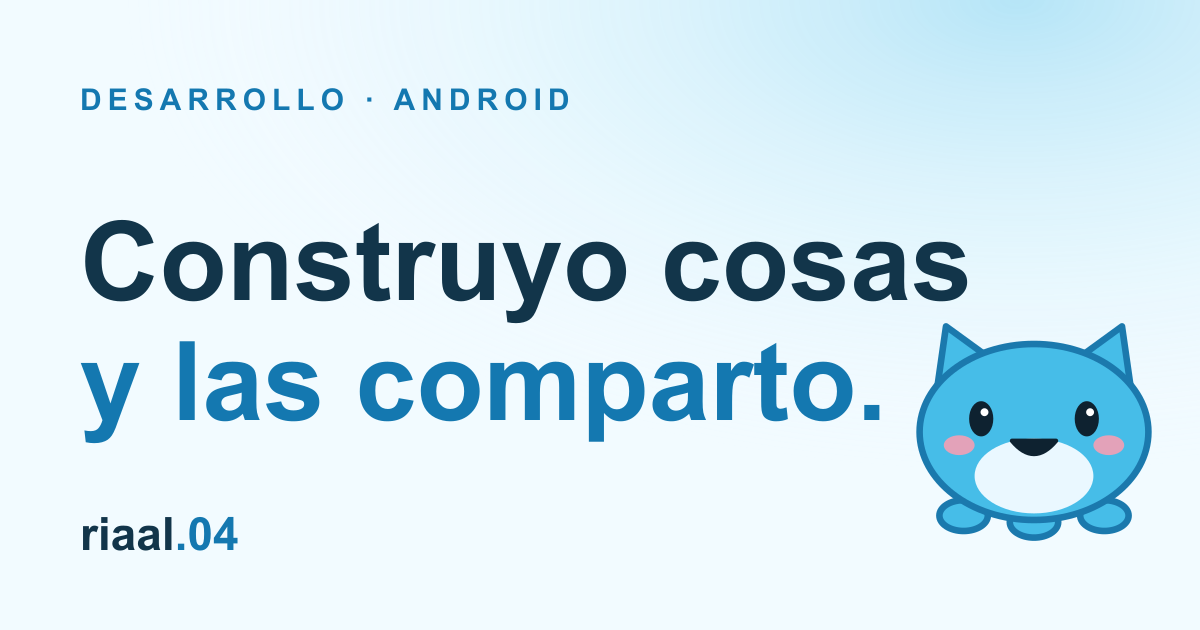
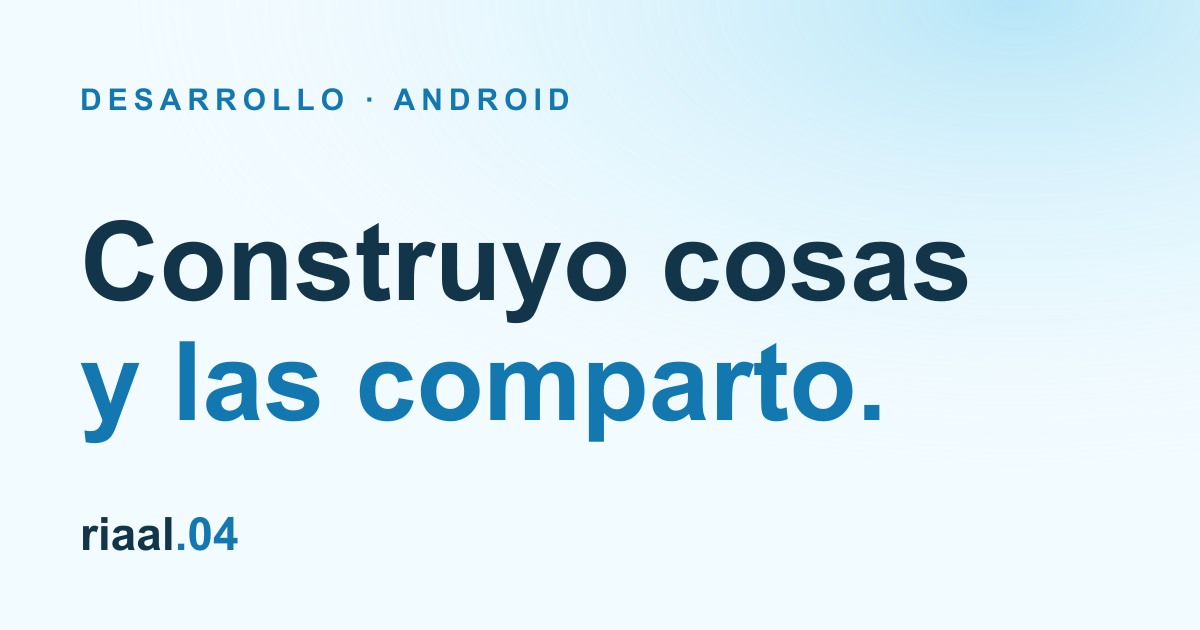
Quitar stickers, anadir Steam y Discord

Changed region(s): [[0.74, 0.5127, 0.9867, 0.8746]]

diff --git a/src/data/links.ts b/src/data/links.ts
@@ -1,9 +1,9 @@
-// Enlaces del perfil. Los que no tengan `url` no se muestran: rellena la url para activarlos.
+// Enlaces del perfil. Con `url` se muestran como botón; solo con `handle`, como tarjeta con el usuario; sin ninguno, no se muestran.
 export interface LinkItem { name: string; handle?: string; url?: string; icon: string }
 export const links: LinkItem[] = [
-  { name: 'Instagram', handle: '@riaal.04', url: 'https://instagram.com/riaal.04', icon: '📸' },
-  { name: 'GitHub', handle: 'Rial-2004', url: 'https://github.com/Rial-2004', icon: '💻' },
-  { name: 'Steam', icon: '🎮' },
-  { name: 'Discord', icon: '💬' },
-  { name: 'LinkedIn', icon: '💼' },
+  { name: "Instagram", handle: "@riaal.04", url: "https://instagram.com/riaal.04", icon: "📸" },
+  { name: "GitHub", handle: "Rial-2004", url: "https://github.com/Rial-2004", icon: "💻" },
+  { name: "Steam", handle: "rial.git", url: "https://steamcommunity.com/profiles/76561199377738758/", icon: "🎮" },
+  { name: "Discord", handle: "rialmar_04", icon: "💬" },
+  { name: "LinkedIn", icon: "💼" },
 ];

diff --git a/src/styles/global.css b/src/styles/global.css
@@ -52,14 +52,9 @@ body::before {
 }
 .btn-outline:hover { transform: translateY(-2px); box-shadow: 0 16px 28px -8px color-mix(in oklab, var(--color-fg) 50%, transparent), 0 2px 0 color-mix(in oklab, var(--color-fg) 18%, transparent); }
 
-/* Stickers flotando */
-.sticker { position: absolute; pointer-events: none; user-select: none; filter: drop-shadow(0 8px 10px color-mix(in oklab, var(--color-fg) 22%, transparent)); }
 @media (prefers-reduced-motion: no-preference) {
-  .sticker { animation: floaty var(--dur, 7s) ease-in-out infinite; animation-delay: var(--delay, 0s); }
-  @keyframes floaty { 0%,100% { transform: translateY(0) rotate(var(--rot, 0deg)); } 50% { transform: translateY(-14px) rotate(calc(var(--rot, 0deg) + 4deg)); } }
   .reveal { animation: reveal 0.6s ease-out both; }
   .reveal:nth-child(2) { animation-delay: 80ms; }
   .reveal:nth-child(3) { animation-delay: 160ms; }
   @keyframes reveal { from { opacity: 0; translate: 0 14px; } }
 }
-@media (prefers-reduced-motion: reduce) { .sticker { transform: rotate(var(--rot, 0deg)); } }
